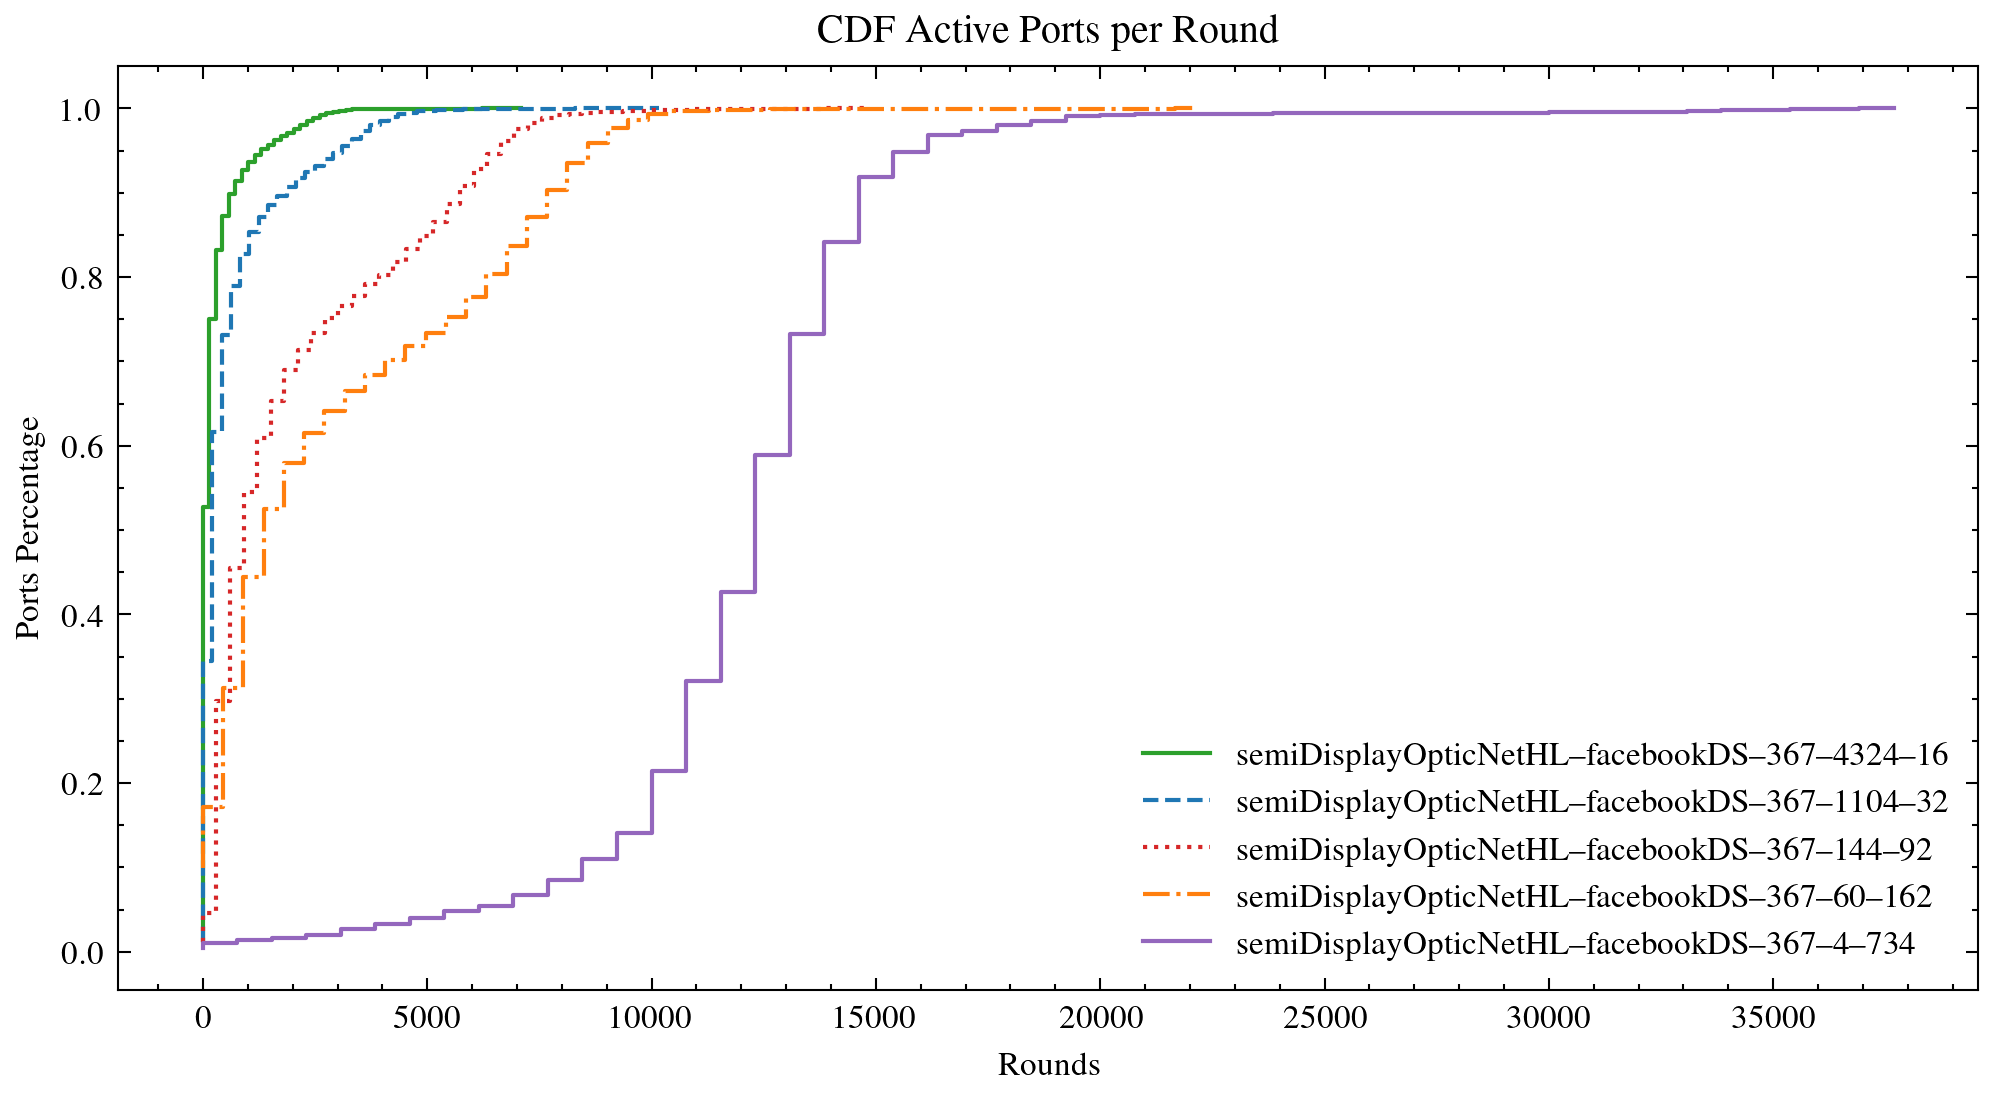
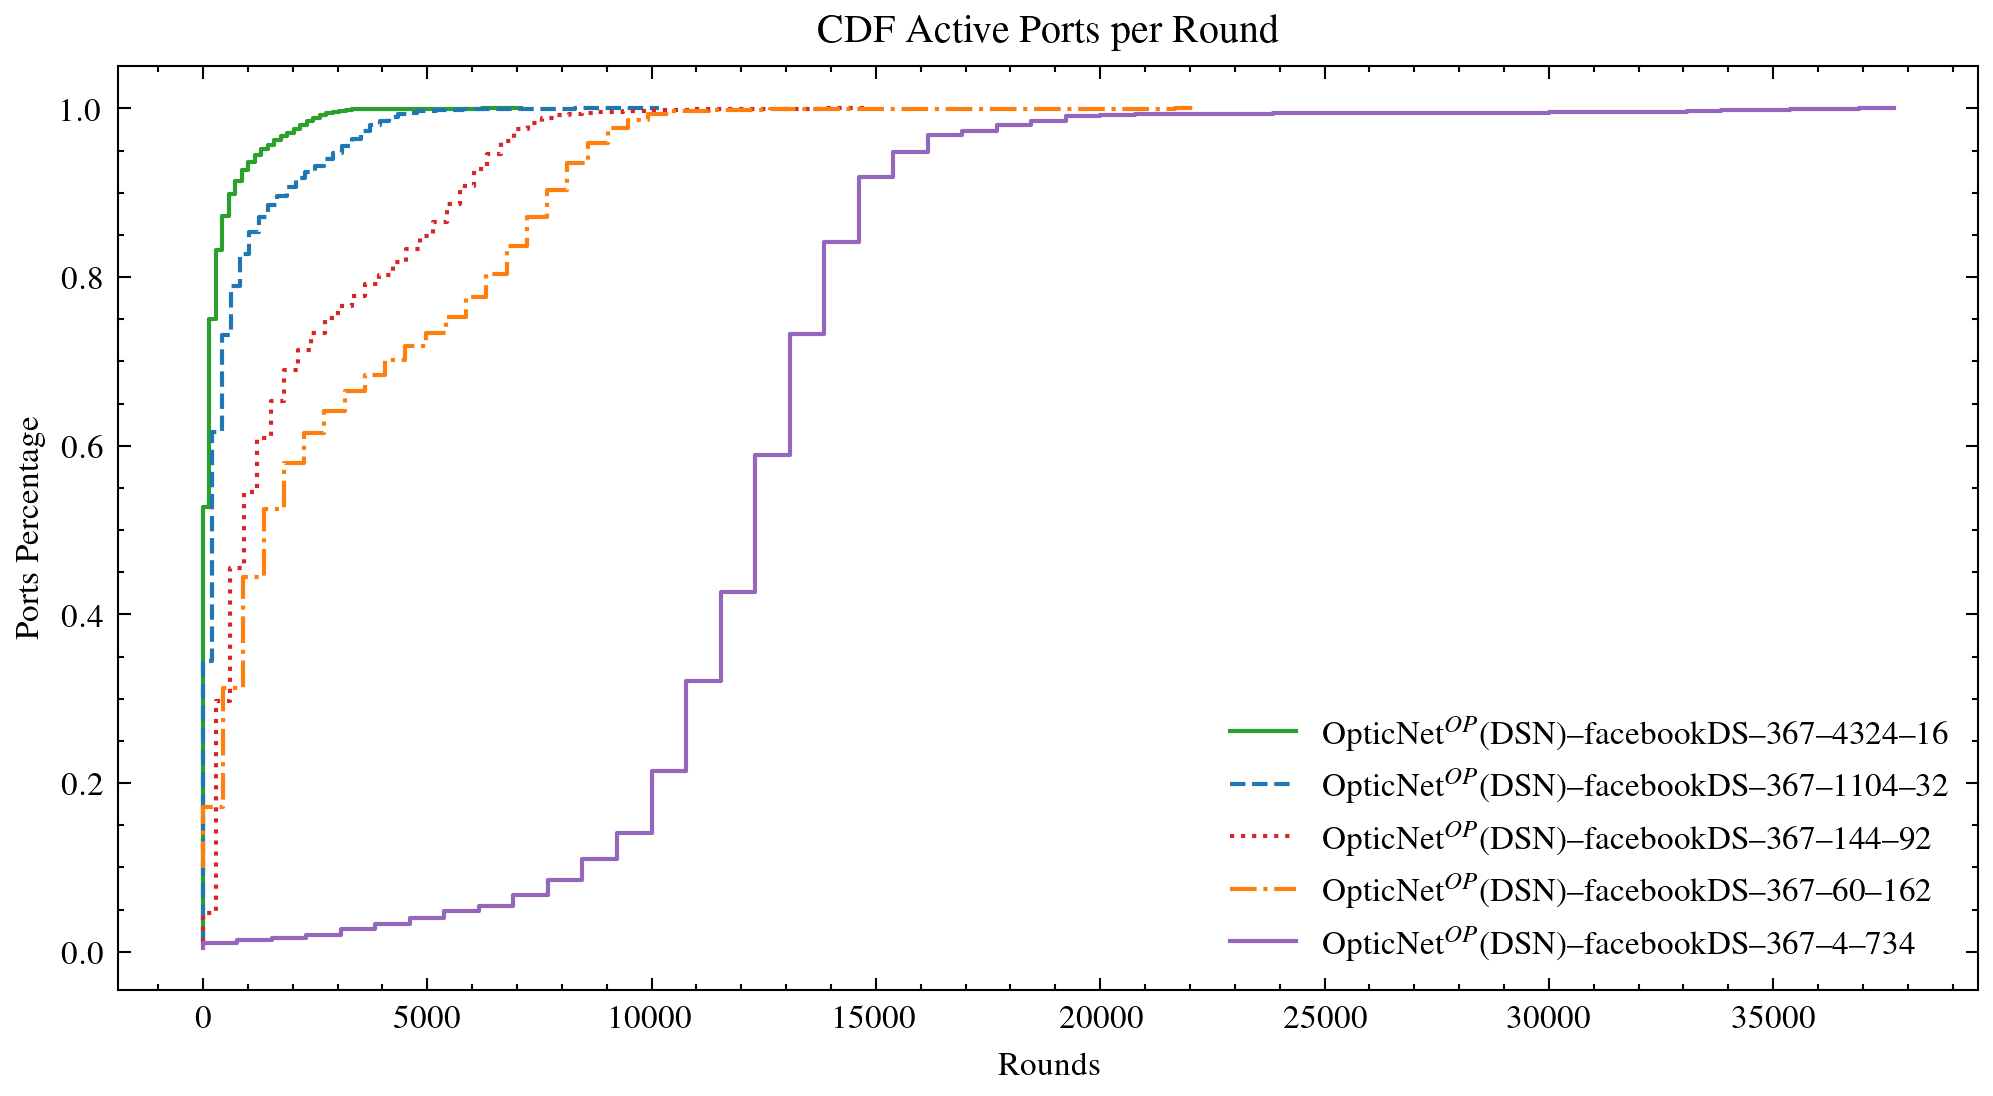
corrected output folder for simulations

Changed region(s): [[0.6222, 0.6515, 0.9955, 0.8686]]

diff --git a/scripts_win/bursty.py b/scripts_win/bursty.py
@@ -96,12 +96,12 @@ for project in projects:
                                 if sequentiality == "true":
                                     output_path = (
                                         "output/bursty-" +
-                                        f"{dataset}/HLSplayOpticNet_{num_node}/{switch_size}/{mu}/{sim_id}/"
+                                        f"{dataset}/SplayOpticNetHL_{num_node}/{switch_size}/{mu}/{sim_id}/"
                                     )
                                 else:
                                     output_path = (
                                         "output/bursty-" +
-                                        f"{dataset}/HL{project}_{num_node}/{switch_size}/{mu}/{sim_id}/"
+                                        f"{dataset}/{project}HL_{num_node}/{switch_size}/{mu}/{sim_id}/"
                                     )
 
                                 input_file = (

diff --git a/scripts_win/skewed.py b/scripts_win/skewed.py
@@ -93,12 +93,12 @@ for project in projects:
                                 if sequentiality == "true":
                                     output_path = (
                                         "output/skewed-" +
-                                        f"{dataset}/SplayOpticNet_{num_node}/{switch_size}/{mu}/{sim_id}/"
+                                        f"{dataset}/SplayOpticNetHL_{num_node}/{switch_size}/{mu}/{sim_id}/"
                                     )
                                 else:
                                     output_path = (
                                         "output/skewed-" +
-                                        f"{dataset}/{project}_{num_node}/{switch_size}/{mu}/{sim_id}/"
+                                        f"{dataset}/{project}HL_{num_node}/{switch_size}/{mu}/{sim_id}/"
                                     )
 
                                 input_file = (

diff --git a/scripts_win/normal.py b/scripts_win/normal.py
@@ -86,10 +86,10 @@ for project in projects:
                             continue
 
                         if sequentiality == "true":
-                            output_path = f"output/normalDS-{dataset}/SplayOpticNet_{num_node}/{switch_size}/{mu}/1/"
+                            output_path = f"output/normalDS-{dataset}/SplayOpticNetHL_{num_node}/{switch_size}/{mu}/1/"
 
                         else:
-                            output_path = f"output/normalDS-{dataset}/{project}_{num_node}/{switch_size}/{mu}/1/"
+                            output_path = f"output/normalDS-{dataset}/{project}HL_{num_node}/{switch_size}/{mu}/1/"
 
                         input_file = f"input/normalDS/{num_node}/{num_node}-{dataset}-std.txt"
                         sim_stream = f"logs/{output_path}sim.txt"

diff --git a/scripts_win/hpc.py b/scripts_win/hpc.py
@@ -77,10 +77,10 @@ for project in projects:
                             switch_size = 2 * num_node
 
                         if sequentiality == "true":
-                            output_path = (f"output/hpcDS-{dataset}/SplayOpticNet_{num_node}/{switch_size}/{mu}/1/")
+                            output_path = (f"output/hpcDS-{dataset}/SplayOpticNetHL_{num_node}/{switch_size}/{mu}/1/")
 
                         else:
-                            output_path = (f"output/hpcDS-{dataset}/{project}_{num_node}/{switch_size}/{mu}/1/")
+                            output_path = (f"output/hpcDS-{dataset}/{project}HL_{num_node}/{switch_size}/{mu}/1/")
 
                         input_file = (f"input/hpcDS/{dataset}.txt")
                         sim_stream = f"logs/{output_path}sim.txt"

diff --git a/scripts_win/projector.py b/scripts_win/projector.py
@@ -86,11 +86,11 @@ for project in projects:
 
                             if sequentiality == "true":
                                 output_path = (
-                                    f"output/{dataset}/SplayOpticNet_{num_node}/{switch_size}/{mu}/{sim_id}/"
+                                    f"output/{dataset}/SplayOpticNetHL_{num_node}/{switch_size}/{mu}/{sim_id}/"
                                 )
                             else:
                                 output_path = (
-                                    f"output/{dataset}/{project}_{num_node}/{switch_size}/{mu}/{sim_id}/"
+                                    f"output/{dataset}/{project}HL_{num_node}/{switch_size}/{mu}/{sim_id}/"
                                 )
 
                             input_file = (

diff --git a/scripts_win/pfab.py b/scripts_win/pfab.py
@@ -76,10 +76,10 @@ for project in projects:
                             switch_size = 2 * num_node
 
                         if sequentiality == "true":
-                            output_path = f"output/pfabDS-{dataset}/SplayOpticNet_{num_node}/{switch_size}/{mu}/1/"
+                            output_path = f"output/pfabDS-{dataset}/SplayOpticNetHL_{num_node}/{switch_size}/{mu}/1/"
 
                         else:
-                            output_path = f"output/pfabDS-{dataset}/{project}_{num_node}/{switch_size}/{mu}/1/"
+                            output_path = f"output/pfabDS-{dataset}/{project}HL_{num_node}/{switch_size}/{mu}/1/"
 
                         input_file = f"input/p_fabDS/{dataset}.txt"
                         sim_stream = f"logs/{output_path}sim.txt"

diff --git a/scripts_win/facebook.py b/scripts_win/facebook.py
@@ -78,10 +78,10 @@ for project in projects:
                             switch_size = 2 * num_node
 
                         if sequentiality == "true":
-                            output_path = f"output/facebookDS/SplayOpticNet_{num_node}/{switch_size}/{mu}/1/"
+                            output_path = f"output/facebookDS/SplayOpticNetHL_{num_node}/{switch_size}/{mu}/1/"
 
                         else:
-                            output_path = f"output/facebookDS/{project}_{num_node}/{switch_size}/{mu}/1/"
+                            output_path = f"output/facebookDS/{project}HL_{num_node}/{switch_size}/{mu}/1/"
 
 
                         input_file = f"input/facebookDS/{dataset}.txt"
